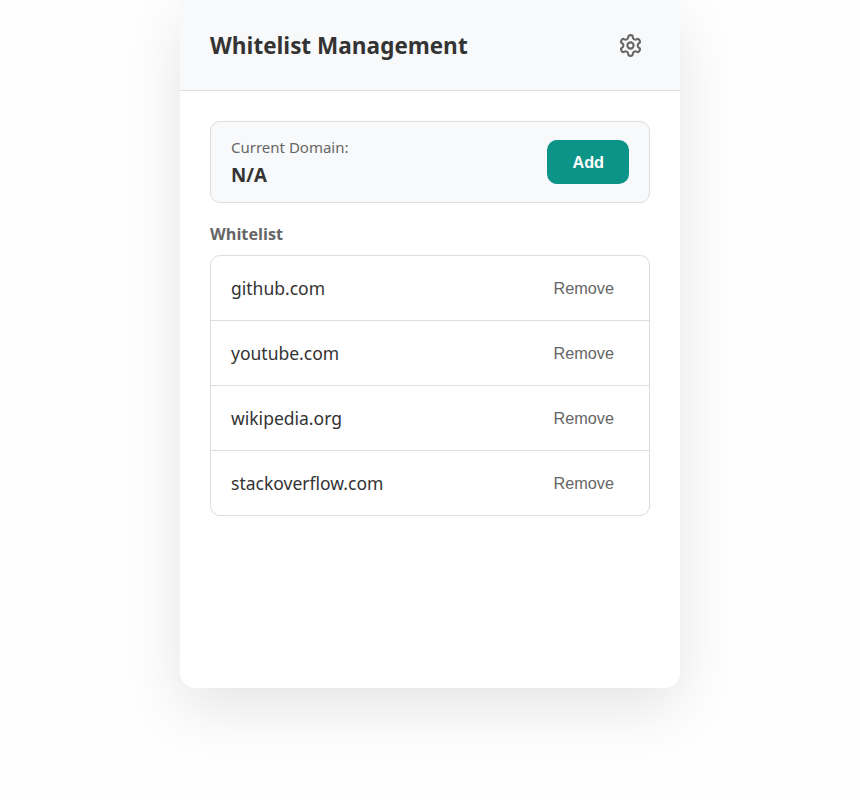
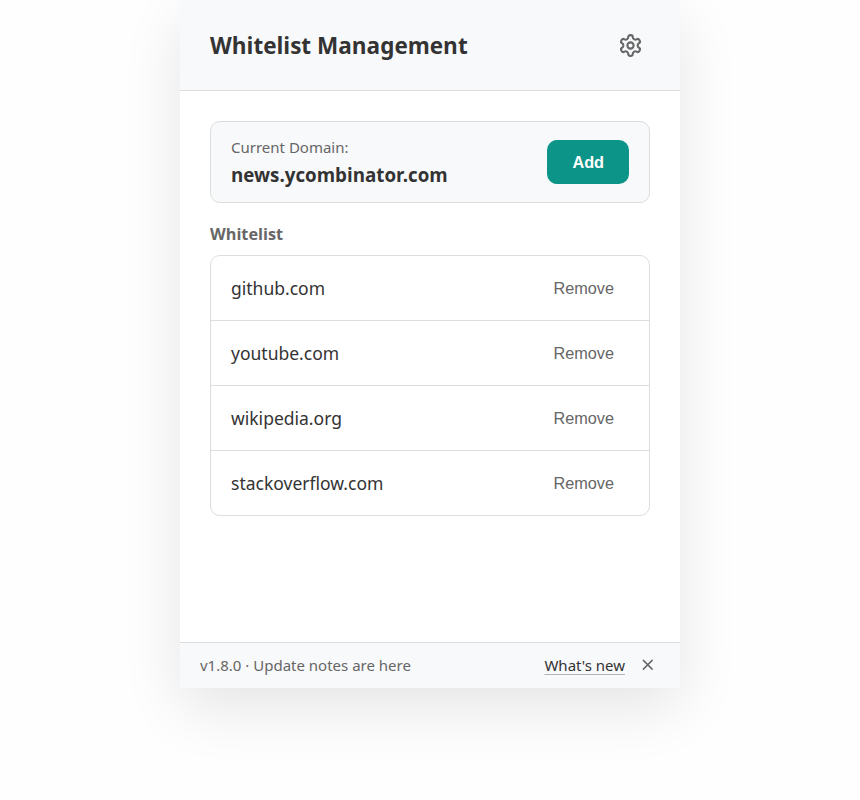
docs(screenshots): capture real 1.8.0 update-notes UI
Regenerate store and website screenshots from the live extension so the
popup footer, Settings → Updates toggle, and Release notes link are
visible. Teach store:screenshots to simulate an upgrade (fresh installs
dismiss the note) and to pick the unpacked extension by its welcome tab.

Changed region(s): [[0.2721, 0.1875, 0.514, 0.25], [0.2419, 0.8125, 0.4837, 0.8438], [0.6349, 0.8125, 0.7256, 0.8438]]

diff --git a/store/README.md b/store/README.md
@@ -37,6 +37,32 @@ Requires Chrome for Testing or a compatible Chromium build. Set `CHROME_PATH` to
 override the browser path. The script uses a temporary profile and does not
 modify the extension's stored data.
 
+Popup shots simulate an **upgrade** so the v1.8.0 update-notes footer is
+visible: a fresh install seeds `dismissedUpdateNotice` with the running version
+(see `extension/background.js`), which would hide the line. The capture script
+sets that key to a prior version and leaves `updateNoticeEnabled` on, then
+asserts the footer text before writing each popup PNG. Options shots are framed
+at zoom `0.72` so `Settings → Updates` and the footer `Release notes` link both
+fit the 1280×800 canvas.
+
+After regenerating, re-crop the website gallery (860×800, `x: 210–1070`):
+
+```bash
+python3 - <<'PY'
+from pathlib import Path
+from PIL import Image
+store, site = Path("store/screenshots"), Path("website/screenshots")
+for src, dst in [
+    ("popup-light-add.png", "popup-light.png"),
+    ("popup-dark-remove.png", "popup-dark.png"),
+    ("options-light.png", "settings-light.png"),
+]:
+    Image.open(store / src).crop((210, 0, 1070, 800)).convert("RGB").save(
+        site / dst, format="PNG"
+    )
+PY
+```
+
 ## Upload
 
 This repo cannot publish to the Chrome Web Store. In the [Developer Dashboard](https://chrome.google.com/webstore/devconsole):

diff --git a/website/README.md b/website/README.md
@@ -47,8 +47,10 @@ website/
 The same window (`x: 210–1070, y: 0–800` out of the 1280×800 originals) keeps the popup and
 the settings page centred on identical canvases, so the three cards stay in visual register
 regardless of how wide the real UI is. Re-run `npm run store:screenshots` after a UI change,
-then re-crop. They are committed rather than generated at build time so deployment stays
-dependency-free.
+then re-crop (see the one-liner in [`store/README.md`](../store/README.md)). They are
+committed rather than generated at build time so deployment stays dependency-free. The
+gallery includes the update-notes footer and the Settings → Updates / Release notes UI
+from extension 1.8.0.
 
 ## SEO & Social Previews
 

diff --git a/CHANGELOG.md b/CHANGELOG.md
@@ -88,6 +88,12 @@ The format follows [Keep a Changelog 1.1.0](https://keepachangelog.com/en/1.1.0/
 
 ### [Unreleased]
 
+#### Changed
+- Store and website screenshots now show the v1.8.0 update-notes UI: the popup
+  footer line (`v1.8.0 · …`), `Settings → Updates`, and the options footer
+  `Release notes` link. `npm run store:screenshots` simulates an upgrade so a
+  fresh capture profile still shows the notify-release footer.
+
 #### Fixed
 - The popup no longer offers to whitelist a page the browser protects. Chrome
   never injects content scripts on the Web Store (`chrome.google.com` — listing
